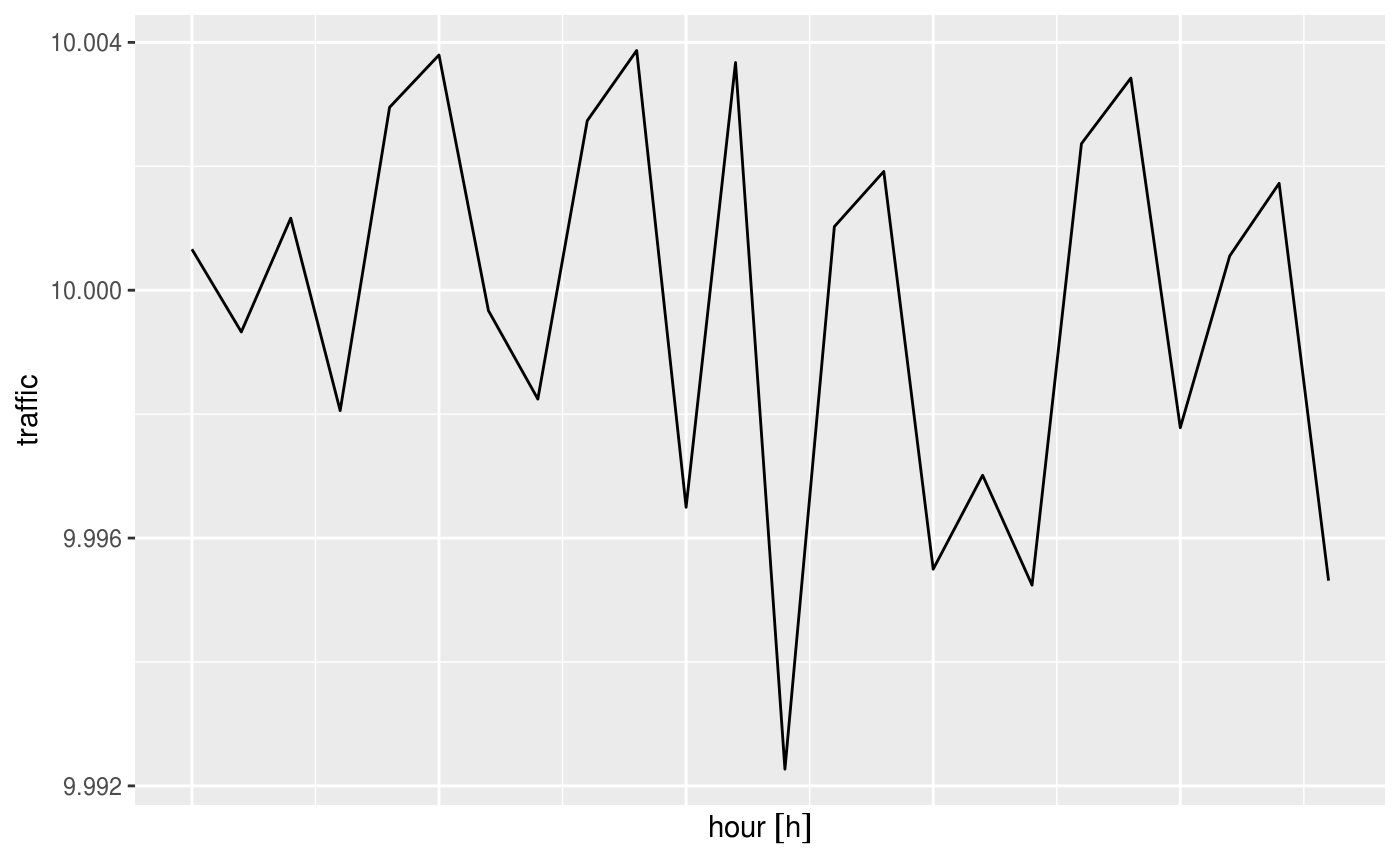
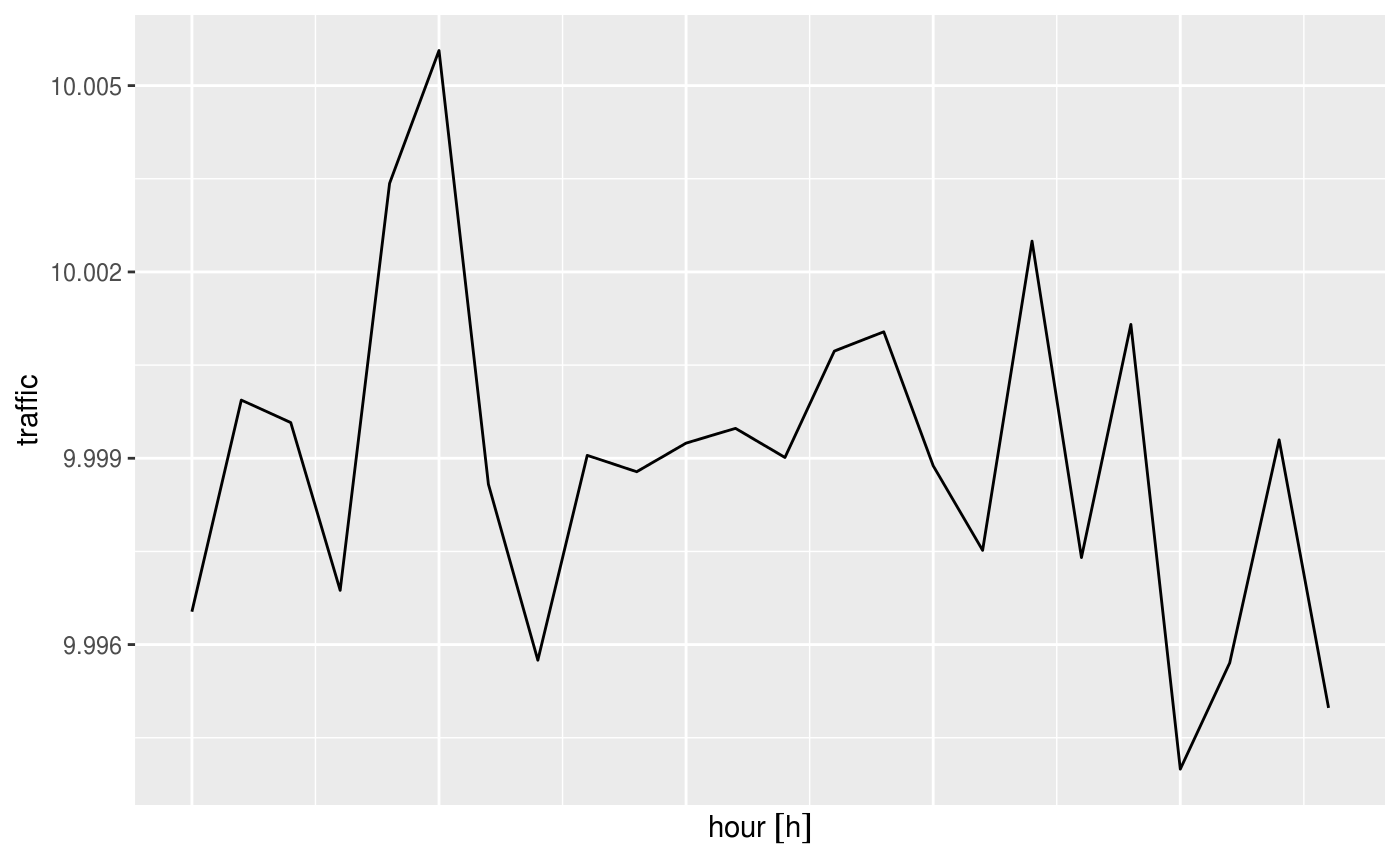
Deploy from Travis build 730 [ci skip]
Build URL: https://travis-ci.org/r-spatial/stars/builds/668185665
Commit: e26ceb887a393e244302c0d6635dbb474a524d6b

diff --git a/reference/read_stars.html b/reference/read_stars.html
@@ -339,7 +339,7 @@ has to be one of: "nearest_neighbour" (the default),
 <span class='fu'><a href='write_stars.html'>write_stars</a></span>(<span class='no'>st</span>, <span class='no'>tmp</span>)
 (<span class='no'>red</span> <span class='kw'>&lt;-</span> <span class='fu'>read_stars</span>(<span class='no'>tmp</span>))</div><div class='output co'>#&gt; stars object with 2 dimensions and 1 attribute
 #&gt; attribute(s):
-#&gt;  file52895944dd05.tif 
+#&gt;  file503779246685.tif 
 #&gt;  Min.   :  1.00       
 #&gt;  1st Qu.: 30.75       
 #&gt;  Median : 60.50       
@@ -355,7 +355,7 @@ has to be one of: "nearest_neighbour" (the default),
 #&gt; [2,]   38   98</div><div class='input'>(<span class='no'>red</span> <span class='kw'>&lt;-</span> <span class='fu'>read_stars</span>(<span class='no'>tmp</span>, <span class='kw'>RasterIO</span> <span class='kw'>=</span> <span class='fu'><a href='https://rdrr.io/r/base/list.html'>list</a></span>(<span class='kw'>nXOff</span> <span class='kw'>=</span> <span class='fl'>1</span>, <span class='kw'>nYOff</span> <span class='kw'>=</span> <span class='fl'>1</span>, <span class='kw'>nXsize</span> <span class='kw'>=</span> <span class='fl'>10</span>, <span class='kw'>nYSize</span> <span class='kw'>=</span> <span class='fl'>12</span>,
    <span class='kw'>nBufXSize</span> <span class='kw'>=</span> <span class='fl'>2</span>, <span class='kw'>nBufYSize</span> <span class='kw'>=</span> <span class='fl'>2</span>)))</div><div class='output co'>#&gt; stars object with 2 dimensions and 1 attribute
 #&gt; attribute(s):
-#&gt;  file52895944dd05.tif 
+#&gt;  file503779246685.tif 
 #&gt;  Min.   :33.00        
 #&gt;  1st Qu.:36.75        
 #&gt;  Median :65.50        

diff --git a/articles/stars2.html b/articles/stars2.html
@@ -276,7 +276,7 @@
 <div class="sourceCode" id="cb8"><html><body><pre class="r"><span class="fu"><a href="https://rdrr.io/r/base/system.time.html">system.time</a></span>(<span class="fu"><a href="../reference/plot.html">plot</a></span>(<span class="no">p</span>))</pre></body></html></div>
 <p><img src="stars2_files/figure-html/unnamed-chunk-8-1.png" width="700"></p>
 <pre><code>##    user  system elapsed 
-##   1.568   0.540   1.377</code></pre>
+##   1.656   0.800   1.587</code></pre>
 <p>This takes only around 1 second, since only those pixels are read that can be seen on the plot. If we read the entire image in memory first, as we would do with</p>
 <div class="sourceCode" id="cb10"><html><body><pre class="r"><span class="no">p</span> <span class="kw">=</span> <span class="fu"><a href="../reference/read_stars.html">read_stars</a></span>(<span class="no">s2</span>, <span class="kw">proxy</span> <span class="kw">=</span> <span class="fl">FALSE</span>)</pre></body></html></div>
 <p>then only the reading would take over a minute, and require 5 Gb memory.</p>
@@ -415,7 +415,7 @@
 <span class="fu"><a href="https://rdrr.io/r/base/system.time.html">system.time</a></span>(<span class="fu"><a href="../reference/plot.html">plot</a></span>(<span class="no">s2.ndvi</span>)) <span class="co"># read - compute ndvi - plot </span></pre></body></html></div>
 <p><img src="stars2_files/figure-html/unnamed-chunk-16-1.png" width="700"></p>
 <pre><code>##    user  system elapsed 
-##   1.588   0.556   1.423</code></pre>
+##   1.768   0.892   1.735</code></pre>
 </div>
 </div>
 </div>

diff --git a/articles/stars1.html b/articles/stars1.html
@@ -554,13 +554,13 @@
 (<span class="no">st</span> <span class="kw">=</span> <span class="fu"><a href="../reference/st_as_stars.html">st_as_stars</a></span>(<span class="fu"><a href="https://rdrr.io/r/base/list.html">list</a></span>(<span class="kw">traffic</span> <span class="kw">=</span> <span class="no">traffic</span>),  <span class="kw">dimensions</span> <span class="kw">=</span> <span class="no">dims</span>))
 <span class="co">## stars object with 5 dimensions and 1 attribute</span>
 <span class="co">## attribute(s), summary of first 1e+05 cells:</span>
-<span class="co">##     traffic      </span>
-<span class="co">##  Min.   : 0.000  </span>
-<span class="co">##  1st Qu.: 8.000  </span>
-<span class="co">##  Median :10.000  </span>
-<span class="co">##  Mean   : 9.998  </span>
-<span class="co">##  3rd Qu.:12.000  </span>
-<span class="co">##  Max.   :27.000  </span>
+<span class="co">##     traffic     </span>
+<span class="co">##  Min.   : 0.00  </span>
+<span class="co">##  1st Qu.: 8.00  </span>
+<span class="co">##  Median :10.00  </span>
+<span class="co">##  Mean   :10.01  </span>
+<span class="co">##  3rd Qu.:12.00  </span>
+<span class="co">##  Max.   :28.00  </span>
 <span class="co">## dimension(s):</span>
 <span class="co">##             from  to                      offset                       delta</span>
 <span class="co">## origin         1 100                          NA                          NA</span>
